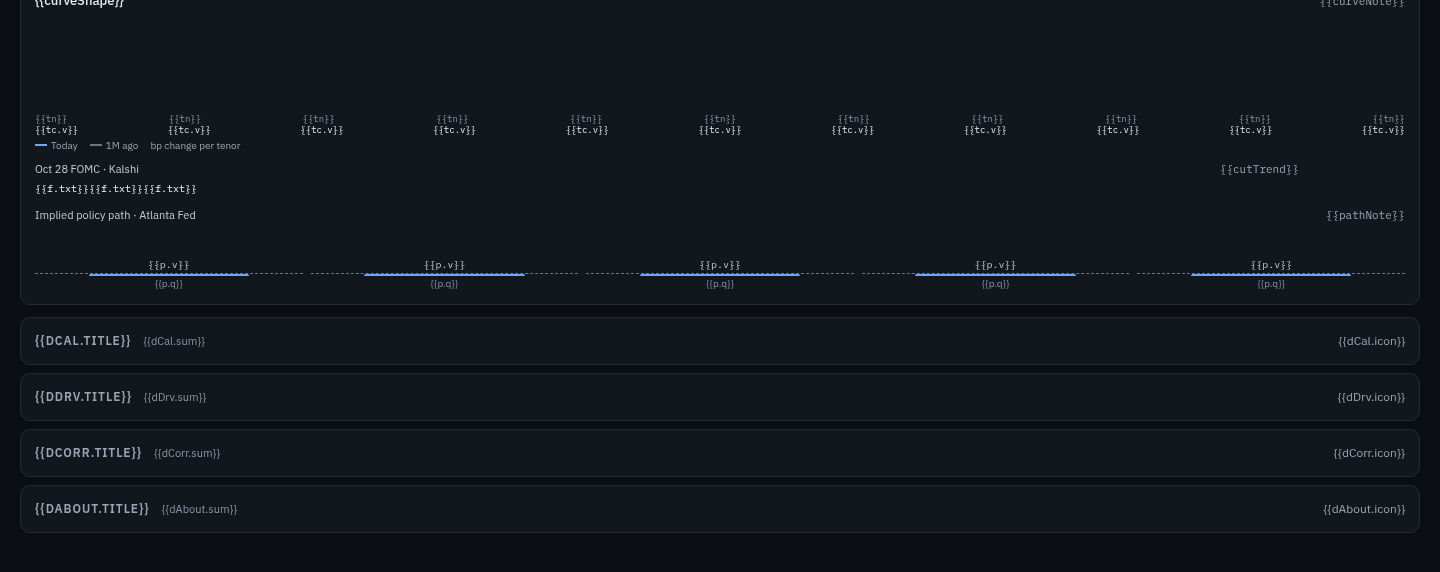
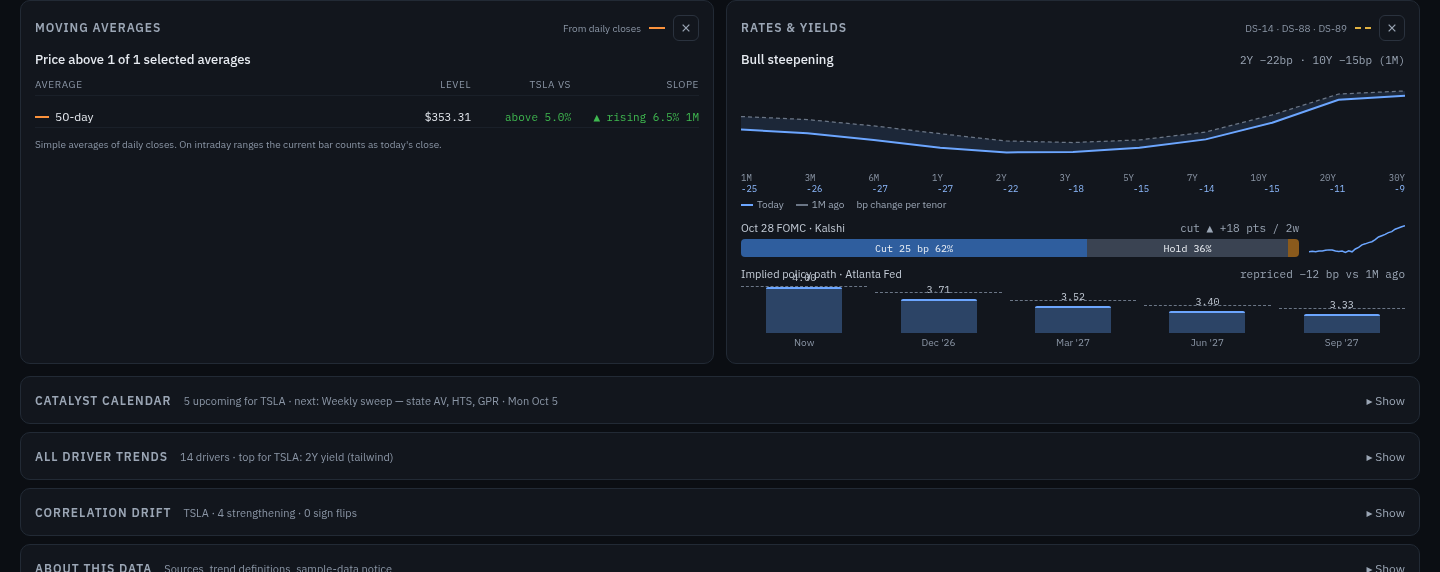
Refresh design-roadmap screenshots with sample data
Add a local Design-canvas preview shim (support.js) so Main/Mobile
artboards bind renderVals() demo series instead of {{placeholders}}.
Re-capture the five docs/design-roadmap PNGs and note they show design
sample data, not live market data.

diff --git a/design/ai-generated/support.js b/design/ai-generated/support.js
@@ -1,0 +1,305 @@
+/**
+ * Local Design-canvas preview shim for design/ai-generated/*.dc.html.
+ *
+ * Not Claude's private host runtime — enough to run the artboard's
+ * `class Component extends DCLogic` script, call renderVals(), and bind
+ * {{holes}}, <sc-for>, <sc-if>, and onClick handlers so sample/demo series
+ * paint for static screenshots and local preview.
+ *
+ * Usage: open Main.dc.html / Mobile.dc.html via a local static server
+ * (file:// may block fonts; http://localhost is preferred).
+ */
+(function (global) {
+  'use strict';
+
+  var HOLE_RE = /\{\{\s*([^}]+?)\s*\}\}/g;
+  var EVENT_ATTRS = {
+    onclick: 'click',
+    onchange: 'change',
+    oninput: 'input',
+    onkeydown: 'keydown',
+    onkeyup: 'keyup',
+    onkeypress: 'keypress',
+    onfocus: 'focus',
+    onblur: 'blur',
+    onsubmit: 'submit',
+    onmousedown: 'mousedown',
+    onmouseup: 'mouseup',
+    onmouseenter: 'mouseenter',
+    onmouseleave: 'mouseleave',
+    ontouchstart: 'touchstart',
+    ontouchend: 'touchend'
+  };
+
+  function lookup(scope, path) {
+    var p = String(path || '').trim();
+    if (!p) return undefined;
+    if (p === 'true') return true;
+    if (p === 'false') return false;
+    if (p === 'null') return null;
+    if (/^-?\d+(\.\d+)?$/.test(p)) return Number(p);
+    var parts = p.split('.');
+    var cur = scope;
+    for (var i = 0; i < parts.length; i++) {
+      if (cur == null) return undefined;
+      cur = cur[parts[i]];
+    }
+    return cur;
+  }
+
+  function formatText(val) {
+    if (val == null) return '';
+    if (typeof val === 'function') return '';
+    if (typeof val === 'boolean') return val ? 'true' : 'false';
+    if (typeof val === 'object') return '';
+    return String(val);
+  }
+
+  function resolveAttr(raw, scope) {
+    if (raw == null) return { kind: 'literal', value: raw };
+    var s = String(raw);
+    var m = /^\{\{\s*([^}]+?)\s*\}\}$/.exec(s);
+    if (m) return { kind: 'raw', value: lookup(scope, m[1]) };
+    if (!s.includes('{{')) return { kind: 'literal', value: s };
+    var out = s.replace(HOLE_RE, function (_, path) {
+      return formatText(lookup(scope, path));
+    });
+    return { kind: 'interp', value: out };
+  }
+
+  function truthy(v) {
+    return !!v;
+  }
+
+  function promoteHelmet(root) {
+    root.querySelectorAll('helmet').forEach(function (h) {
+      Array.prototype.slice.call(h.childNodes).forEach(function (n) {
+        if (n.nodeType === 1) document.head.appendChild(n.cloneNode(true));
+      });
+      h.remove();
+    });
+  }
+
+  function ensureBaseStyles() {
+    if (document.getElementById('dc-preview-shim-style')) return;
+    var s = document.createElement('style');
+    s.id = 'dc-preview-shim-style';
+    s.textContent = [
+      'x-dc { display: contents; }',
+      'sc-if, sc-for { display: contents; }',
+      'dc-import { display: none; }',
+      'body { margin: 0; background: #0B0E13; }'
+    ].join('\n');
+    document.head.appendChild(s);
+  }
+
+  function defaultsFromPropsAttr(raw) {
+    var props = {};
+    if (!raw) return props;
+    try {
+      var cfg = JSON.parse(raw);
+      Object.keys(cfg).forEach(function (k) {
+        if (k === '$preview') return;
+        var e = cfg[k];
+        if (e && Object.prototype.hasOwnProperty.call(e, 'default')) props[k] = e.default;
+      });
+    } catch (err) {
+      console.warn('[dc-preview] bad data-props', err);
+    }
+    return props;
+  }
+
+  function bindTextNode(node, scope) {
+    var t = node.nodeValue;
+    if (!t || t.indexOf('{{') < 0) return;
+    node.nodeValue = t.replace(HOLE_RE, function (_, path) {
+      return formatText(lookup(scope, path));
+    });
+  }
+
+  function bindElement(el, scope) {
+    if (el.tagName === 'SC-FOR') {
+      bindScFor(el, scope);
+      return;
+    }
+    if (el.tagName === 'SC-IF') {
+      bindScIf(el, scope);
+      return;
+    }
+    if (el.tagName === 'DC-IMPORT' || el.tagName === 'HELMET') {
+      el.remove();
+      return;
+    }
+
+    var attrs = Array.prototype.slice.call(el.attributes || []);
+    attrs.forEach(function (attr) {
+      var name = attr.name;
+      var low = name.toLowerCase();
+      var resolved = resolveAttr(attr.value, scope);
+
+      if (EVENT_ATTRS[low]) {
+        el.removeAttribute(name);
+        if (typeof resolved.value === 'function') {
+          el.addEventListener(EVENT_ATTRS[low], function (ev) {
+            try {
+              resolved.value.call(null, ev);
+            } catch (err) {
+              console.error('[dc-preview] handler error', err);
+            }
+          });
+        }
+        return;
+      }
+
+      if (resolved.kind === 'literal') return;
+
+      if (resolved.kind === 'raw') {
+        var v = resolved.value;
+        if (typeof v === 'function') {
+          el.removeAttribute(name);
+          return;
+        }
+        if (v == null) {
+          el.removeAttribute(name);
+          return;
+        }
+        if (typeof v === 'boolean') {
+          if (low === 'aria-pressed' || low === 'aria-expanded' || low === 'aria-selected' || low === 'aria-checked') {
+            el.setAttribute(name, v ? 'true' : 'false');
+          } else if (v) {
+            el.setAttribute(name, '');
+          } else {
+            el.removeAttribute(name);
+          }
+          return;
+        }
+        el.setAttribute(name, String(v));
+        return;
+      }
+
+      el.setAttribute(name, resolved.value);
+    });
+
+    Array.prototype.slice.call(el.childNodes).forEach(function (child) {
+      if (child.nodeType === 3) bindTextNode(child, scope);
+      else if (child.nodeType === 1) bindElement(child, scope);
+    });
+  }
+
+  function bindScIf(el, scope) {
+    var raw = el.getAttribute('value');
+    var resolved = resolveAttr(raw, scope);
+    var ok = truthy(resolved.value);
+    if (!ok) {
+      el.remove();
+      return;
+    }
+    el.style.display = 'contents';
+    Array.prototype.slice.call(el.childNodes).forEach(function (child) {
+      if (child.nodeType === 3) bindTextNode(child, scope);
+      else if (child.nodeType === 1) bindElement(child, scope);
+    });
+  }
+
+  function bindScFor(el, scope) {
+    var listAttr = el.getAttribute('list');
+    var asName = el.getAttribute('as') || 'item';
+    var listVal = resolveAttr(listAttr, scope).value;
+    var list = Array.isArray(listVal) ? listVal : [];
+    var templateNodes = Array.prototype.slice.call(el.childNodes).map(function (n) {
+      return n.cloneNode(true);
+    });
+    while (el.firstChild) el.removeChild(el.firstChild);
+    el.style.display = 'contents';
+    list.forEach(function (item, index) {
+      var childScope = Object.create(scope);
+      childScope[asName] = item;
+      childScope.$index = index;
+      templateNodes.forEach(function (tmpl) {
+        var node = tmpl.cloneNode(true);
+        el.appendChild(node);
+        if (node.nodeType === 3) bindTextNode(node, childScope);
+        else if (node.nodeType === 1) bindElement(node, childScope);
+      });
+    });
+  }
+
+  function DCLogic() {
+    this.props = {};
+    this.state = {};
+    this._d = null;
+  }
+
+  DCLogic.prototype.setState = function (partial) {
+    var next = Object.assign({}, this.state || {}, partial || {});
+    this.state = next;
+    if (typeof this._rerender === 'function') this._rerender();
+  };
+
+  DCLogic.prototype.forceUpdate = function () {
+    if (typeof this._rerender === 'function') this._rerender();
+  };
+
+  global.DCLogic = DCLogic;
+
+  function loadComponent(scriptEl) {
+    var src = scriptEl.textContent || '';
+    try {
+      return new Function('DCLogic', src + '\n; return Component;')(DCLogic);
+    } catch (err) {
+      console.error('[dc-preview] failed to evaluate Component', err);
+      throw err;
+    }
+  }
+
+  function mount() {
+    ensureBaseStyles();
+    var host = document.querySelector('x-dc');
+    var scriptEl = document.querySelector('script[data-dc-script]');
+    if (!host || !scriptEl) {
+      console.warn('[dc-preview] missing x-dc or data-dc-script');
+      return;
+    }
+
+    promoteHelmet(host);
+    var templateHtml = host.innerHTML;
+    var Component = loadComponent(scriptEl);
+    var instance = new Component();
+    instance.props = defaultsFromPropsAttr(scriptEl.getAttribute('data-props'));
+    instance.state = {};
+
+    function render() {
+      var vals;
+      try {
+        vals = instance.renderVals() || {};
+      } catch (err) {
+        console.error('[dc-preview] renderVals threw', err);
+        host.innerHTML = '<pre style="color:#F0A6A6;padding:24px;white-space:pre-wrap">renderVals error: ' +
+          String(err && err.stack || err) + '</pre>';
+        document.documentElement.setAttribute('data-dc-preview', 'error');
+        return;
+      }
+      var wrap = document.createElement('div');
+      wrap.innerHTML = templateHtml;
+      // Re-promote any helmet left in the stored template (already stripped once)
+      promoteHelmet(wrap);
+      Array.prototype.slice.call(wrap.childNodes).forEach(function (child) {
+        if (child.nodeType === 3) bindTextNode(child, vals);
+        else if (child.nodeType === 1) bindElement(child, vals);
+      });
+      host.innerHTML = '';
+      while (wrap.firstChild) host.appendChild(wrap.firstChild);
+      document.documentElement.setAttribute('data-dc-preview', 'ready');
+      document.documentElement.setAttribute('data-dc-sym', String(vals.sym || ''));
+    }
+
+    instance._rerender = render;
+    render();
+  }
+
+  if (document.readyState === 'loading') {
+    document.addEventListener('DOMContentLoaded', mount);
+  } else {
+    mount();
+  }
+})(typeof window !== 'undefined' ? window : globalThis);

diff --git a/docs/design-roadmap/README.md b/docs/design-roadmap/README.md
@@ -2,12 +2,23 @@
 
 Reference captures from the AI-generated design canvases in `design/ai-generated/` (`Main.dc.html`, `Mobile.dc.html`). Used by GitHub roadmap issues for features not yet shipped in `apps/web`.
 
+Rendered locally with `design/ai-generated/support.js` (a Design-canvas preview shim) so the artboard’s `renderVals()` sample/demo series bind into charts and labels.
+
 | File | What it shows |
 | --- | --- |
 | `desktop-full.png` | Full desktop stock view (header, selector, chart, signals, panels, drawers) |
 | `desktop-chart-overlays.png` | Period chips, overlay tabs, under-chart lanes, catalyst markers |
 | `desktop-signals.png` | Net macro pressure, regimes, drivers, catalyst sensitivity |
 | `desktop-macro-panels.png` | Macro / theme / news sentiment panels |
-| `mobile-glance.png` | Four-tab phone glance layout |
+| `mobile-glance.png` | Four-tab phone glance layout (Chart / Signals / Calendar & more) |
 
-**Note:** Values in these shots are design placeholders (sample series and dated demo facts), not live lake data. See the [Dashboard features](https://github.com/ram290476/investor-dashboard/wiki/Dashboard-features) wiki for what ships today vs design-only.
+**Note:** Values in these shots are **design sample data** from the artboard’s inline demo generator (dated demo facts and synthetic series), **not live lake / market data**. See the [Dashboard features](https://github.com/ram290476/investor-dashboard/wiki/Dashboard-features) wiki for what ships today vs design-only.
+
+## Regenerating
+
+```sh
+cd design/ai-generated
+python3 -m http.server 8765
+# In another shell, open Main.dc.html / Mobile.dc.html in Chrome and capture,
+# or use a headless script against http://127.0.0.1:8765/…
+```

diff --git a/design/ai-generated/README.md b/design/ai-generated/README.md
@@ -3,3 +3,19 @@
 These files are canvas exports, mockups, and design guidance. They are reference material only;
 the deployable, zero-build dashboard lives in [`../../apps/web/`](../../apps/web/). Do not publish
 this directory as the production site or treat its sample values as live market data.
+
+## Local preview (`support.js`)
+
+`support.js` in this folder is a **local Design-canvas preview shim** (not Claude’s private host
+runtime). It defines `DCLogic`, evaluates each artboard’s `class Component extends DCLogic`
+script, calls `renderVals()`, and binds `{{holes}}`, `<sc-for>`, `<sc-if>`, and click handlers so
+the demo series paint in a normal browser.
+
+Serve this directory over HTTP and open `Main.dc.html` or `Mobile.dc.html`:
+
+```sh
+python3 -m http.server 8765
+# → http://127.0.0.1:8765/Main.dc.html
+```
+
+Screenshots under [`../../docs/design-roadmap/`](../../docs/design-roadmap/) were captured this way.
